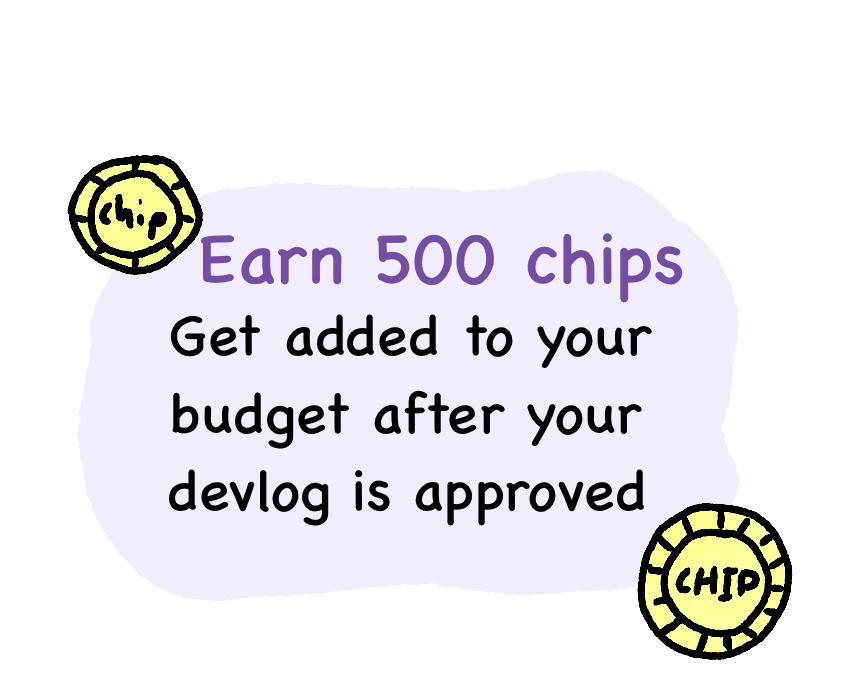
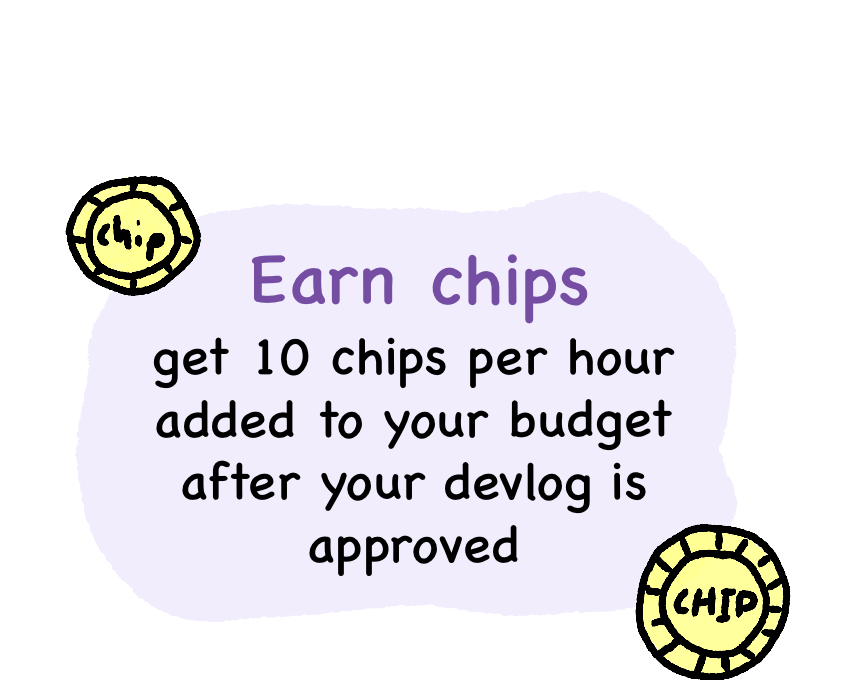
Final changes

Changed region(s): [[0.0615, 0.2162, 0.9527, 1.0]]

diff --git a/style.css b/style.css
@@ -26,10 +26,18 @@ body {
     padding: 125px 0;
 }
 
+.sponsors-img{
+    width: min(100%, 550px);
+    height: auto;
+    display: block;
+    margin: 0 auto 0px;
+    margin-left: 640px;
+}
+
 /* Hero */
 .hero {
     text-align: right;
-    margin-top: -180px;
+    margin-top: -105px;
     margin-bottom: -100px;
     padding: 20px 20px 60px;
     color: #181818; 
@@ -51,7 +59,7 @@ body {
     justify-content: center;
     flex-wrap: wrap;
     align-items: center;
-    margin: 40px 0;
+    margin: -40px 0;
 }
 
 .img-btn {

diff --git a/index.html b/index.html
@@ -1,6 +1,7 @@
 <!DOCTYPE html>
 <html lang="en">
 <head>
+    <link rel="icon" type="image/png" href="bob2.png">
     <meta charset="UTF-8">
     <meta name="viewport" content="width=device-width, initial-scale=1.0, user-scalable=no, maximum-scale=1, minimum-scale=1">
     <title>Re-Dream</title>
@@ -32,7 +33,7 @@
         <img src="bob4.png" alt="" class="bob-decoration bob-4b">
 
         <section class="hero">
-            <h2 class="hero-subtitle reveal reveal-delay-1">brought to you by Skylar, Jordan and [Sponsor]</h2>
+            <!-- <img src="sponsor_text.png" alt="Sponsors" class="sponsors-img"> -->
             <img src="Logo.png" alt="Re-Dream" class="hero-logo reveal">
             <div class="button-group reveal reveal-delay-2">
                 <a href="https://rsvp.soon.it/re-dream" class="img-btn rsvp-button" target="_blank" rel="noopener noreferrer"><img src="RSVP.png" alt="RSVP"></a>

diff --git a/faq.html b/faq.html
@@ -1,6 +1,7 @@
 <!DOCTYPE html>
 <html lang="en">
 <head>
+    <link rel="icon" type="image/png" href="bob3.png">
     <meta charset="UTF-8">
     <meta name="viewport" content="width=device-width, initial-scale=1.0, user-scalable=no, maximum-scale=1, minimum-scale=1">
     <title>Re-Dream FAQ</title>